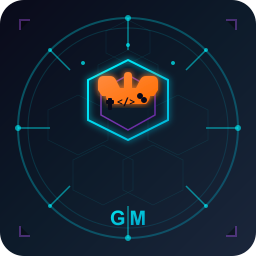
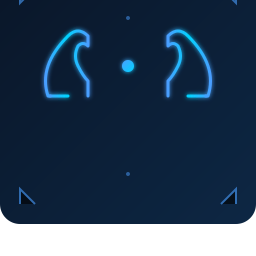
重新设计图标：简约蓝白科技风

diff --git a/README.en.md b/README.en.md
@@ -1,13 +1,8 @@
 # GodoMaster
 
 <p align="center">
-  <img src="https://github.com/Aetik-yue/GodoMaster/raw/main/icon.png" width="128" height="128" alt="GodoMaster">
-</p>
-
-<p align="center">
-
+  <img src="https://github.com/Aetik-yue/GodoMaster/raw/main/icon.png" width="128" height="128" alt="GodoMaster"><br>
   <img src="https://img.shields.io/github/stars/Aetik-yue/GodoMaster?style=flat-square" alt="Stars">
-
 </p>
 
 [**简体中文**](README.md)

diff --git a/README.md b/README.md
@@ -1,13 +1,8 @@
 # GodoMaster
 
 <p align="center">
-  <img src="https://github.com/Aetik-yue/GodoMaster/raw/main/icon.png" width="128" height="128" alt="GodoMaster">
-</p>
-
-<p align="center">
-
+  <img src="https://github.com/Aetik-yue/GodoMaster/raw/main/icon.png" width="128" height="128" alt="GodoMaster"><br>
   <img src="https://img.shields.io/github/stars/Aetik-yue/GodoMaster?style=flat-square" alt="Stars">
-
 </p>
 
 [**English**](README.en.md) | **简体中文**